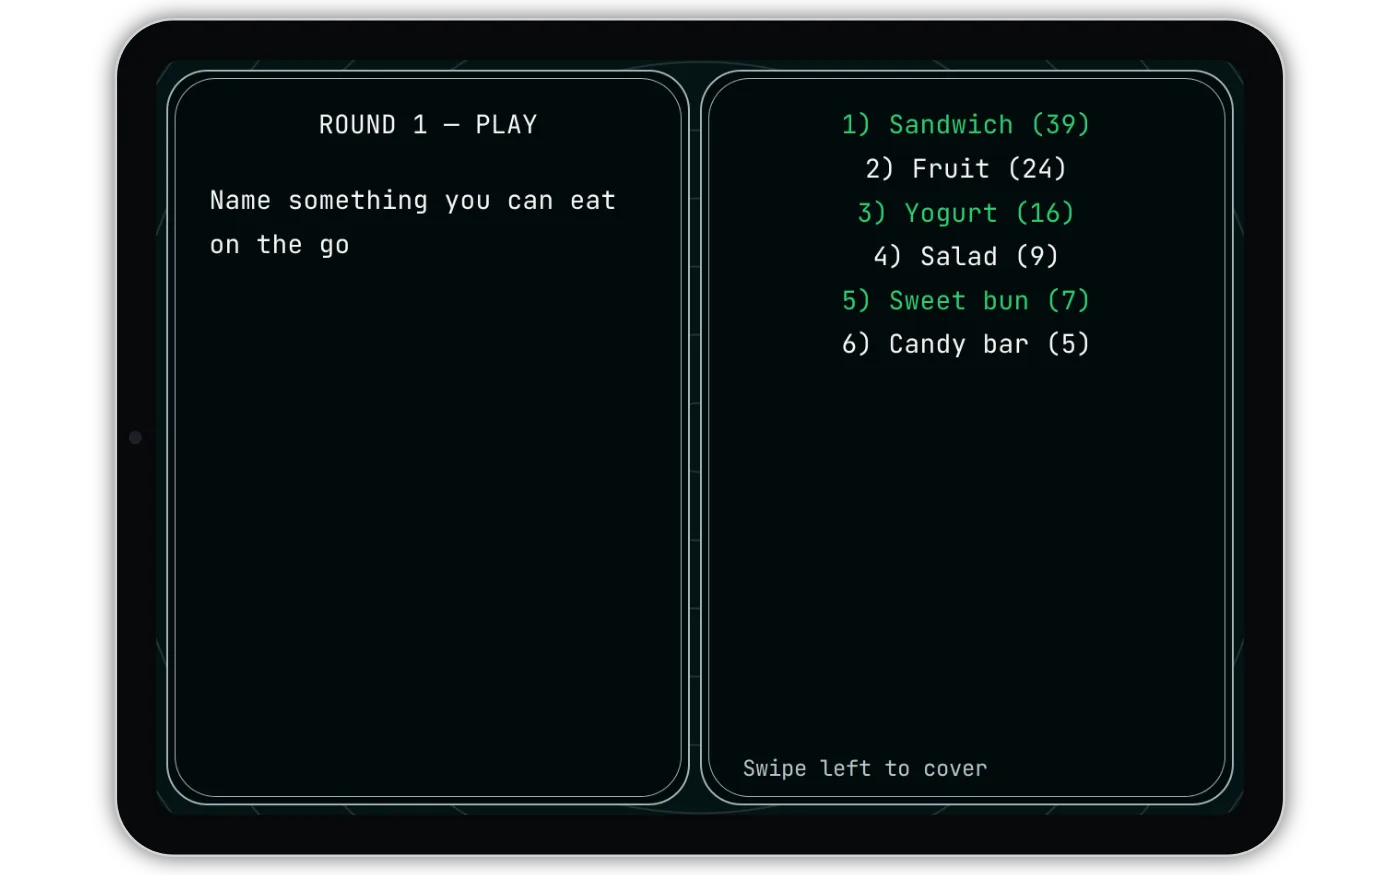
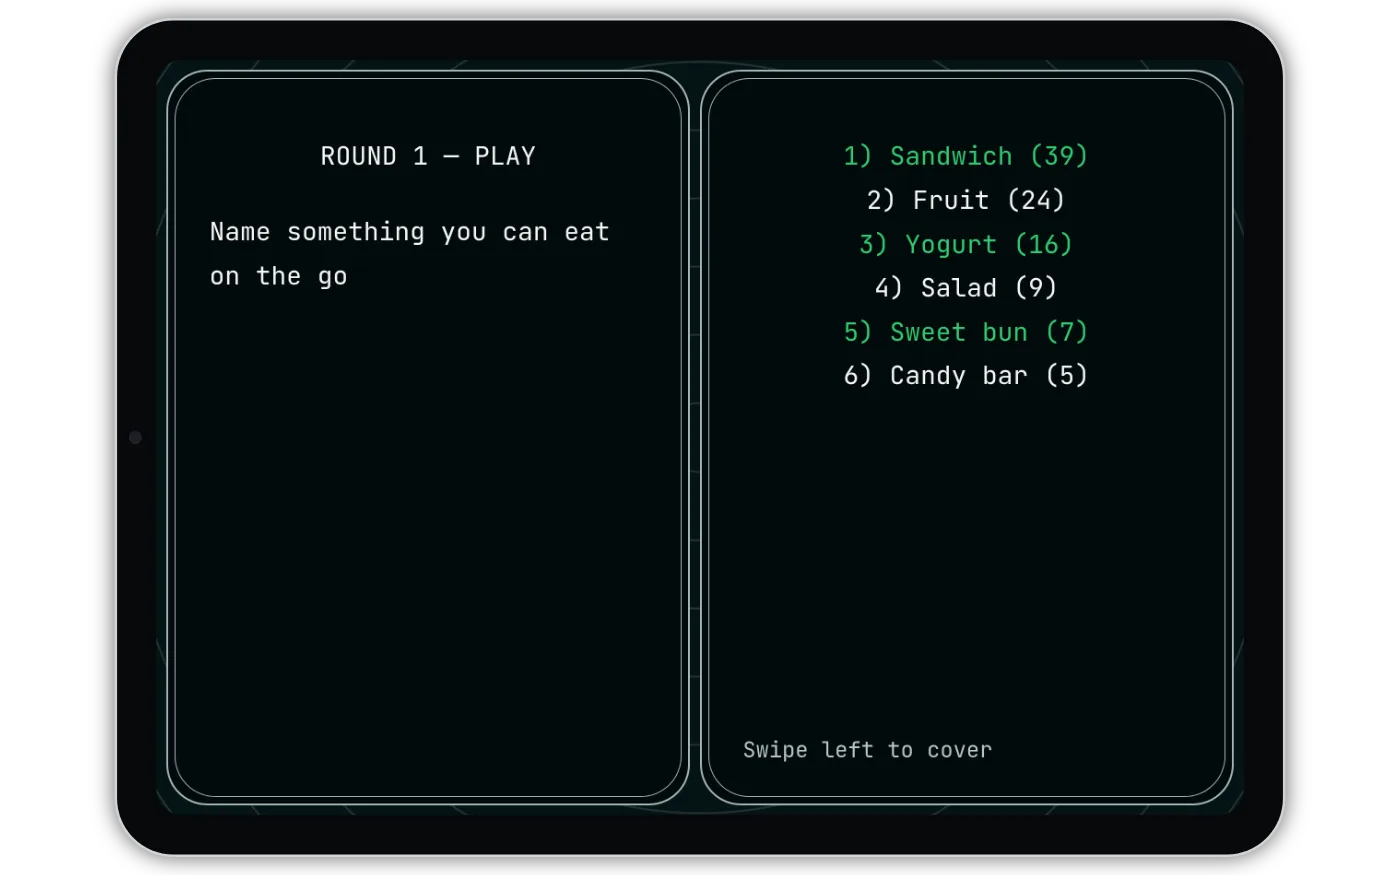
fix: keep Host text clear of frames and brighten team covers

diff --git a/web/control/host/css/host.css b/web/control/host/css/host.css
@@ -474,6 +474,7 @@ div#cover2Logo {
   --host-frame: color-mix(in srgb, var(--host-background) 38%, var(--white));
   --host-frame-faint: color-mix(in srgb, var(--host-frame) 20%, transparent);
   --host-board-pad: clamp(8px, 1.4vmin, 20px);
+  --host-reading-inset: max(18px, calc(var(--host-line) * 1.3));
   --host-board-radius: calc(var(--host-line) * .75);
   --host-chamfer: calc(var(--host-line) * .65);
   --host-brass: color-mix(in srgb, #a88e64 75%, var(--host-background));
@@ -481,10 +482,10 @@ div#cover2Logo {
 }
 
 html[data-host-board="true"] {
-  --host-text-left-1: calc(var(--host-line) * 1.3);
-  --host-text-right-1: calc(var(--host-line) * 1.3);
-  --host-text-left-2: calc(var(--host-line) * 1.3);
-  --host-text-right-2: calc(var(--host-line) * 1.3);
+  --host-text-left-1: var(--host-reading-inset);
+  --host-text-right-1: var(--host-reading-inset);
+  --host-text-left-2: var(--host-reading-inset);
+  --host-text-right-2: var(--host-reading-inset);
 }
 
 html[data-preview][data-host-board="true"] { --host-board-pad: 1.4vmin; }
@@ -515,19 +516,24 @@ html[data-host-board="true"] .pane::after {
 
 html[data-host-board="true"] .pane2::before { display: none; }
 html[data-host-board="true"] .text { z-index: 1; }
+html[data-host-board="true"] .pane1 .text {
+  top: max(var(--host-text-top-1), var(--host-reading-inset));
+  bottom: calc(var(--host-safe-bottom) + var(--host-reading-inset));
+}
+html[data-host-board="true"] .pane2 .text {
+  top: max(var(--host-text-top-2), var(--host-reading-inset));
+  /* Reserve space for a wrapped swipe hint as well as the lower frame. */
+  bottom: calc(var(--host-safe-bottom) + var(--host-reading-inset) + var(--host-line) * 2.4);
+}
 html[data-host-board="true"] .p2Hint {
   z-index: 2;
-  bottom: calc(var(--host-safe-bottom) + var(--host-line) * .7);
+  bottom: calc(var(--host-safe-bottom) + var(--host-reading-inset));
   color: var(--host-board-hint);
 }
 
 html[data-host-board="true"] .cover2 {
   border-radius: inherit;
-  background-color: var(--host-panel-bg);
-  background-image: linear-gradient(135deg,
-    color-mix(in srgb, var(--host-cover-grad-a) 36%, transparent),
-    transparent 38% 62%,
-    color-mix(in srgb, var(--host-cover-grad-b) 36%, transparent));
+  background: linear-gradient(135deg, var(--host-cover-grad-a), var(--host-cover-grad-b));
 }
 
 html[data-host-board="true"] .cover2::before {
@@ -541,7 +547,16 @@ html[data-host-board="true"] .cover2::before {
 
 html[data-host-board="true"] .cover2Content {
   z-index: 1;
-  padding-bottom: calc(var(--host-safe-bottom) + var(--host-line) * .85);
+  padding: calc(var(--host-safe-top) + var(--host-reading-inset))
+    calc(var(--host-safe-right) + var(--host-reading-inset))
+    calc(var(--host-safe-bottom) + var(--host-reading-inset))
+    calc(var(--host-safe-left) + var(--host-reading-inset));
+}
+html[data-host-board="true"] .cover2Swipe {
+  box-sizing: border-box;
+  max-width: 100%;
+  padding: 0;
+  text-align: center;
 }
 
 /* Skrzydła: cut corners and strips underneath both reading areas. */
@@ -594,8 +609,10 @@ html[data-host-theme="radar"] .paper {
 html[data-host-theme="radar"] .pane::after { inset: 7px; border-color: var(--host-frame); }
 html[data-host-theme="radar"] .cover2::before {
   inset: 10%;
+  bottom: calc(var(--host-reading-inset) + var(--host-line) * 3);
   border-radius: 50%;
-  box-shadow: 0 0 0 8px var(--host-frame-faint), 0 0 0 20px var(--host-frame-faint);
+  box-shadow: 0 0 0 calc(var(--host-line) * .25) var(--host-frame-faint),
+    0 0 0 calc(var(--host-line) * .6) var(--host-frame-faint);
 }
 
 /* Kaseton: brass edges, rivets and a serif reading face. */
@@ -612,7 +629,9 @@ html[data-host-theme="cabinet"] .pane::after { inset: 9px; border-color: var(--h
 html[data-host-theme="cabinet"] .cover2::before { border: 4px double var(--host-brass); }
 
 /* Wstęga: bowed frames and curved edges in team colors. */
-html[data-host-theme="ribbon"] { --host-board-radius: 30% 12% 30% 12% / 12px 26px 12px 26px; }
+html[data-host-theme="ribbon"] {
+  --host-board-radius: 30% 12% 30% 12% / calc(var(--host-line) * .35) calc(var(--host-line) * .75) calc(var(--host-line) * .35) calc(var(--host-line) * .75);
+}
 html[data-host-theme="ribbon"] .paper {
   background-image: radial-gradient(ellipse at 0 100%, color-mix(in srgb, var(--host-cover-grad-a) 24%, transparent), transparent 60%),
     radial-gradient(ellipse at 100% 0, color-mix(in srgb, var(--host-cover-grad-b) 24%, transparent), transparent 60%);
@@ -621,10 +640,10 @@ html[data-host-theme="ribbon"] .pane::after {
   inset: 6px 10px;
   border-inline: 0;
   border-block: 2px solid var(--host-cover-grad-a);
-  border-radius: 45% / 18px;
+  border-radius: 45% / calc(var(--host-line) * .53);
 }
 html[data-host-theme="ribbon"] .pane2::after { border-block-color: var(--host-cover-grad-b); }
-html[data-host-theme="ribbon"] .cover2::before { border-radius: 45% / 24px; }
+html[data-host-theme="ribbon"] .cover2::before { border-radius: 45% / calc(var(--host-line) * .7); }
 
 /* Most: steel frames with diagonal trusses visible between the panels. */
 html[data-host-theme="bridge"] { --host-board-radius: 0px; }

diff --git a/docs/wdrozenia.md b/docs/wdrozenia.md
@@ -242,6 +242,23 @@ bo `PAGES` deklaruje blokady; adresy po mapie stron; instrukcja na końcu.
 
 ## Dziennik
 
+### 2026-10-26 — Host: tekst poza ramkami i jaśniejsza zasłona
+
+- Zgłoszenie użytkownika: tekst wchodzi na ramki części motywów, zasłona
+  za ciemna. Bezpieczne odstępy obejmują treść, podpowiedź i zasłonę;
+  osobne miejsce na dwuwierszowy napis gestu. Łuki Wstęgi skalują się
+  z tekstem, pierścień Radaru kończy się nad napisem na zasłonie.
+- Pełny gradient A/B na zasłonie zamiast ciemnego środka. Classic/Modern
+  bez zmiany. Wskazówki nie wymagają zmiany opisu; odświeżone kadry Hosta
+  PL/EN/UK. Sceny obejmują też telefon w poziomie i zasłony na telefonie.
+- 30 zrzutów pięciu motywów: desktop 1400, telefon 390 i telefon poziomo.
+  Pomiar rzeczywistej strony z długim pytaniem/odpowiedziami: 20 układów
+  (5 motywów × 4 okna, w tym podgląd 320×200), min. odstęp tekst–ramka
+  18 px, tekst–podpowiedź 13,3 px, napis zasłony–krawędź 20 px; ostatnia
+  odpowiedź dostępna po przewinięciu. Bez dopisywania nowych testów CSS.
+- Unit punktowo 29/29 ✓, lokalny Host E2E 1/1 ✓. Następnie bramka
+  Hosta na branchu, Pages i punktowa kontrola Hosta na produkcji.
+
 ### 2026-10-26 — osobne motywy Prowadzącego i mniejszy odstęp longów
 
 - Doprecyzowanie użytkownika: pierwsze rozsunięcie longów było za duże.

diff --git a/docs/motywy-wyswietlacza.md b/docs/motywy-wyswietlacza.md
@@ -48,6 +48,16 @@ Wdrożone: bramka Host 40249758651 ✓, Pages 40249873902 ✓,
 końcowa produkcja Host/Display 40249971411 **2/2 ✓**.
 Zrzuty i Wskazówki PL/EN/UK odświeżone.
 
+## Odstępy tekstu Hosta i jasność zasłony — 2026-10-26
+
+Zgłoszenie użytkownika: tekst nachodzi na ramki niektórych motywów,
+zasłona jest zbyt ciemna. Wszystkie pięć wersji otrzymuje bezpieczny
+wewnętrzny odstęp dla tekstu, podpowiedzi gestu i zawartości zasłony.
+Obszar odpowiedzi rezerwuje miejsce na dwuwierszową podpowiedź; łuki
+Wstęgi skalują się z rozmiarem tekstu także w małym podglądzie.
+Zasłona używa pełnego gradientu A/B bez ciemnego, przezroczystego środka.
+Classic i Modern zachowują dotychczasowy wygląd.
+
 ## Stan — wdrożone 2026-10-26
 
 Pięć nowych motywów oraz zaakceptowana animacja Modern są na produkcji.
